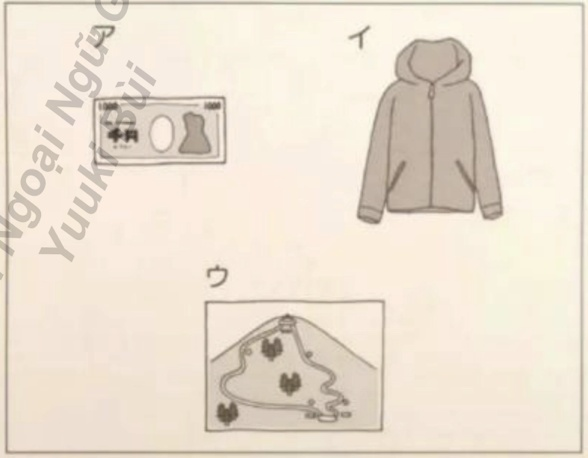
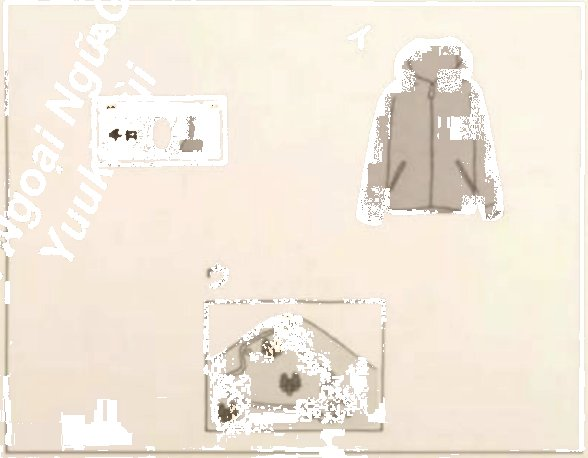
feat: replace 3 exam images with clean watermark-free versions

diff --git a/src/features/dictionary/study/data/n5-2021-exam.ts b/src/features/dictionary/study/data/n5-2021-exam.ts
@@ -437,7 +437,7 @@ const _RAW: StaticQuestion[] = [
     { groupId: "lq1", sectionId: "listening", type: "listening_scene",
       display: "7ばん",
       options: ["アイ", "アウ", "イウ", "アイウ"], correctIndex: 0,
-      imageSrc: "/exams/n5-2021/listening/lq1_q7.svg",
+      imageSrc: "/exams/n5-2021/listening/lq1_q7.jpg",
       explanation: "Đáp án: アイ. [Điền giải thích nội dung audio tại đây]" },
 
     // ─── もんだい2 (lq2): 6問 — 質問を聞いて絵から答えを選ぶ ──────────────
@@ -486,7 +486,7 @@ const _RAW: StaticQuestion[] = [
       explanation: "Đáp án 1. [Điền giải thích nội dung audio tại đây]" },
     { groupId: "lq3", sectionId: "listening", type: "listening_scene",
       display: "2ばん", options: ["1", "2", "3"], correctIndex: 1,
-      imageSrc: "/exams/n5-2021/listening/lq3_q2.svg",
+      imageSrc: "/exams/n5-2021/listening/lq3_q2.jpg",
       explanation: "Đáp án 2. [Điền giải thích nội dung audio tại đây]" },
     { groupId: "lq3", sectionId: "listening", type: "listening_scene",
       display: "3ばん", options: ["1", "2", "3"], correctIndex: 1,
@@ -498,7 +498,7 @@ const _RAW: StaticQuestion[] = [
       explanation: "Đáp án 3. [Điền giải thích nội dung audio tại đây]" },
     { groupId: "lq3", sectionId: "listening", type: "listening_scene",
       display: "5ばん", options: ["1", "2", "3"], correctIndex: 1,
-      imageSrc: "/exams/n5-2021/listening/lq3_q5.svg",
+      imageSrc: "/exams/n5-2021/listening/lq3_q5.jpg",
       explanation: "Đáp án 2. [Điền giải thích nội dung audio tại đây]" },
 
     // ─── もんだい4 (lq4): 6問 — 絵なし、文を聞いて返事を選ぶ ───────────────
